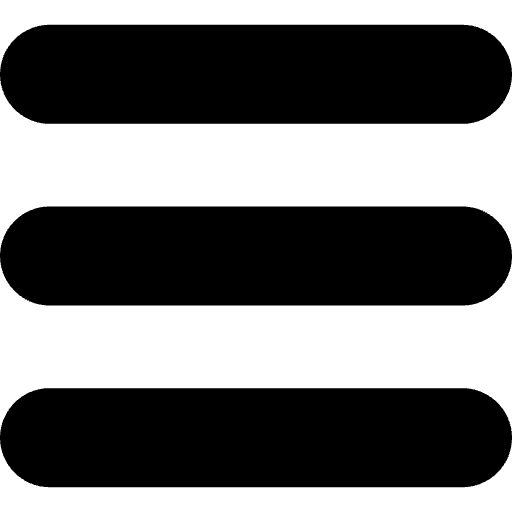
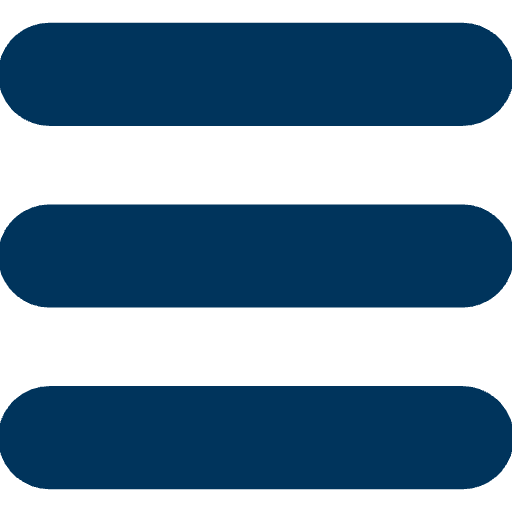
Update images and styling

diff --git a/src/components/Projects/ProjectPage.jsx b/src/components/Projects/ProjectPage.jsx
@@ -129,9 +129,9 @@ export const ProjectPage = () => {
       <div className={styles.footer}>
         <h3>How can you get involved?</h3>
         <ul className={styles.footerList}>
-          <li>Join the EWB SFU Discord</li>
-          <li>Follow us @ewb.sfu on Instagram for the latest updates</li>
-          <li>Fill out the Google Form for the design team of your choice!</li>
+          <li>Join the <Link to="https://discord.com/invite/pBGK5rx7hM" target="_blank" rel="noopener noreferrer" className={styles.link }>EWB SFU Discord</Link></li>
+          <li>Follow us <Link to="https://www.instagram.com/ewb.sfu/" target="_blank" rel="noopener noreferrer" className={styles.link}>@ewb.sfu</Link> on Instagram for the latest updates</li>
+          <li>Fill out the <Link to="https://docs.google.com/forms/d/e/1FAIpQLSfRZQX7wzaqc-uiasgSEBilxkVSSh-rL4mXwABkIxdniKJRmg/viewform" target="_blank" rel="noopener noreferrer" className={styles.link}>Google Form</Link> for the design team of your choice!</li>
         </ul>
       </div>
     </section>

diff --git a/src/components/Contact/Contact.jsx b/src/components/Contact/Contact.jsx
@@ -11,11 +11,13 @@ export const Contact = () => {
             <div className={styles.footer}>
 
                 <div className={styles.footerSection}>
-                    <h3 className={styles.secTitle}>Projects</h3>
+                    <h3 className={styles.secTitle}>Ventures</h3>
                     <ul>
-                        <li>Project 1</li>
-                        <li>Project 2</li>
-                        <li>Project 3</li>
+                        <li>Bionics Project</li>
+                        <li>Eng-gage</li>
+                        <li>Firefly</li>
+                        <li>Project R3D</li>
+                        <li>Sustain-ee</li>
                     </ul>
                 </div>
 

diff --git a/src/components/Projects/ProjectPage.module.css b/src/components/Projects/ProjectPage.module.css
@@ -415,6 +415,15 @@
 
 }
 
+.link {
+    text-decoration: none;
+    color: var(--color-white-text);
+}
+
+.link:hover {
+    color: lightblue;
+}
+
 @media screen and (max-width: 800px) {
     .hiringList {
         flex-wrap: wrap;
